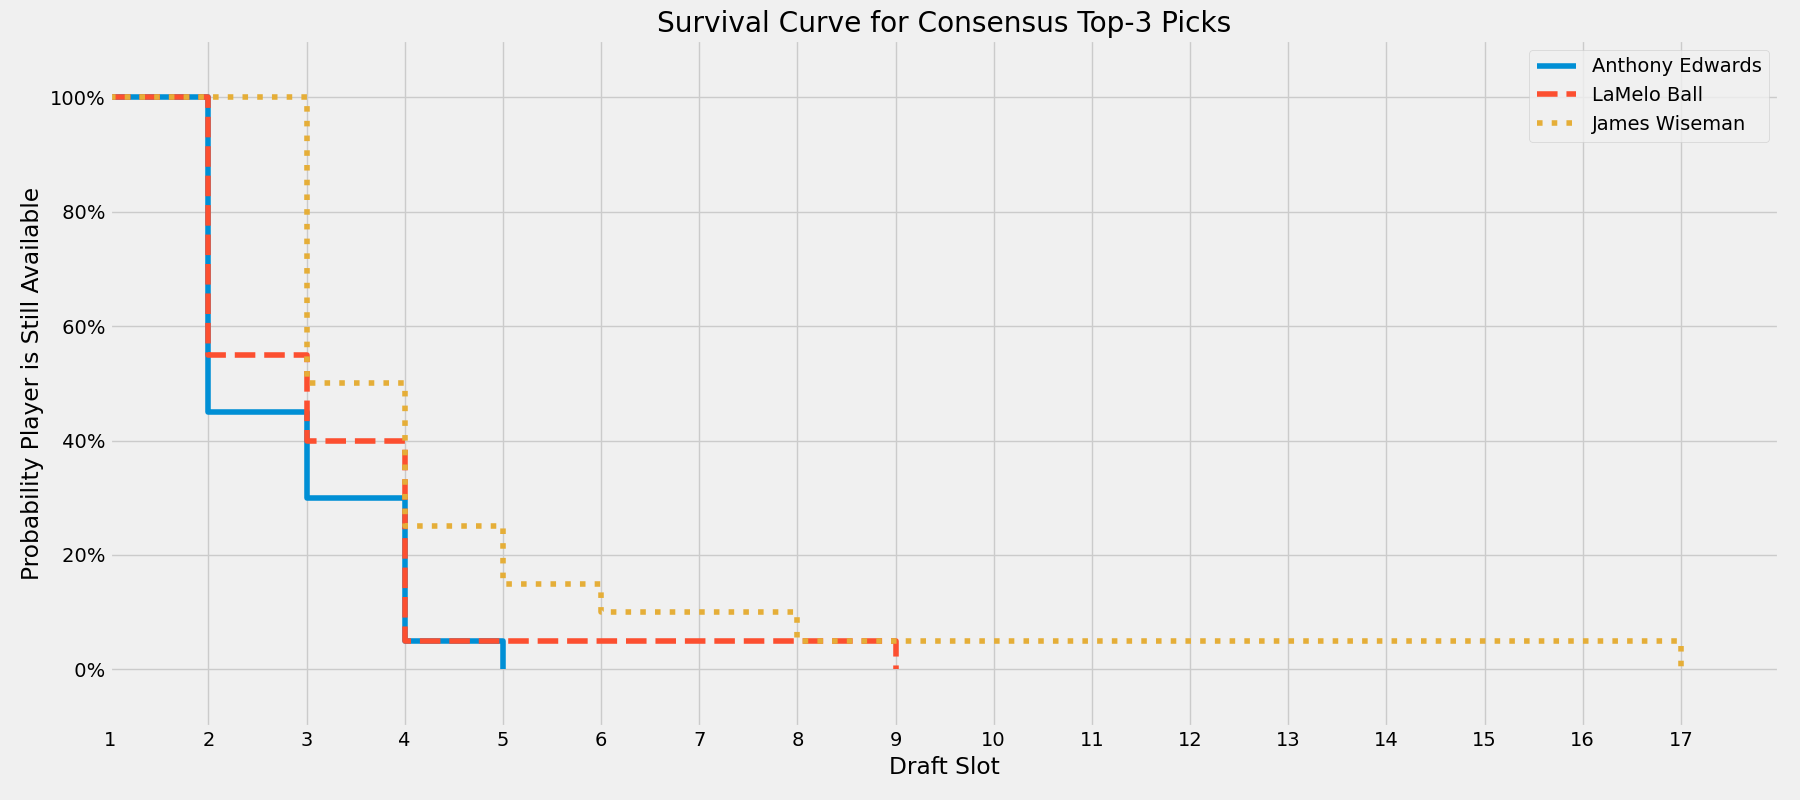
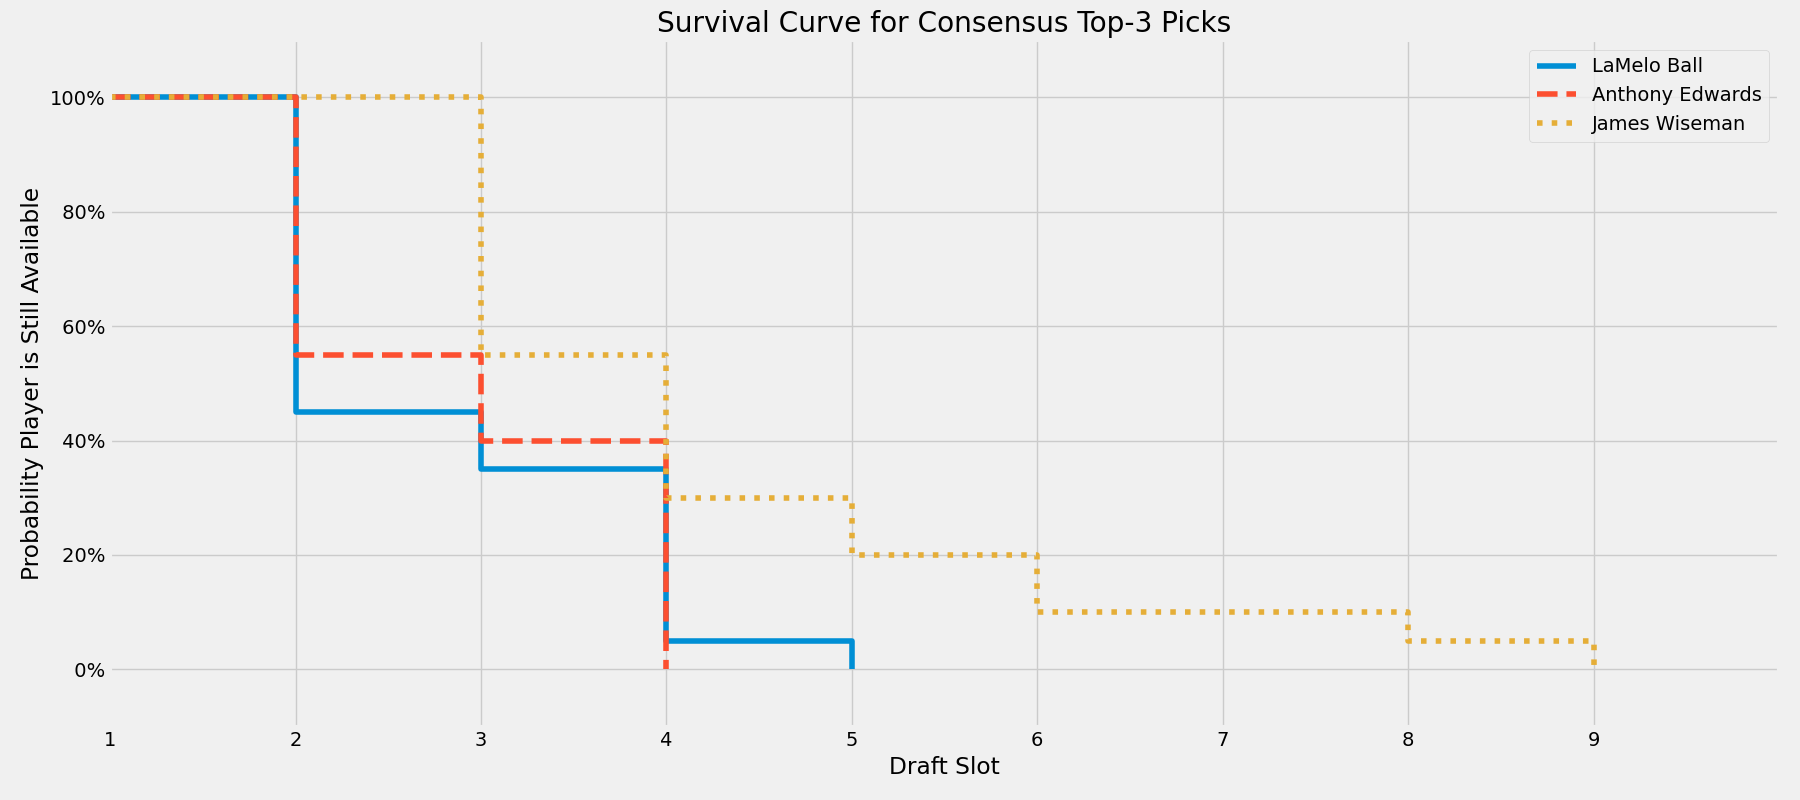
October 26 Updates

diff --git a/scripts/survival_analysis.py b/scripts/survival_analysis.py
@@ -72,7 +72,7 @@ def plot_player(player, melt_df, save=False):
     # slice to individual player
     idx = melt_df.player == player
     # get the maximum draft slot for given player for x-axis plotting purposes
-    x_max = min(60, melt_df.query("player=='{0}'".format(player))['duration'].max())
+    x_max = min(60, melt_df.query('player=="{0}"'.format(player))['duration'].max())
     # fit Kaplan-Meier survival model
     kmf.fit(melt_df.duration[idx], melt_df.observed[idx])
     # plot survival curve
@@ -237,16 +237,16 @@ if __name__=='__main__':
     # Read in individual mock drafts
     babcock_hoops_df = pd.read_csv('../data/babcock_hoops.csv')
     bryan_kalbrosky_df = pd.read_csv('../data/bryan_kalbrosky.csv')
+    chad_ford_df = pd.read_csv('../data/chad_ford.csv')
     chris_stone_df = pd.read_csv('../data/chris_stone.csv')
     danny_cunningham_df = pd.read_csv('../data/danny_cunningham.csv')
-    draft_express_df = pd.read_csv('../data/draft_express.csv')
     gary_parrish_df = pd.read_csv('../data/gary_parrish.csv')
     james_ham_df = pd.read_csv('../data/james_ham.csv')
     jeff_goodman_df = pd.read_csv('../data/jeff_goodman.csv')
     jeremy_woo_df = pd.read_csv('../data/jeremy_woo.csv')
+    jonathan_givony_df = pd.read_csv('../data/jonathan_givony.csv')
     jonathan_wasserman_df = pd.read_csv('../data/jonathan_wasserman.csv')
     kevin_oconnor_df = pd.read_csv('../data/kevin_oconnor.csv')
-    kevin_pelton_df = pd.read_csv('../data/kevin_pelton.csv')
     krysten_peek_df = pd.read_csv('../data/krysten_peek.csv')
     kyle_boone_df = pd.read_csv('../data/kyle_boone.csv')
     nbadraftnet_df = pd.read_csv('../data/nbadraftnet.csv')
@@ -257,10 +257,10 @@ if __name__=='__main__':
     tankathon_df = pd.read_csv('../data/tankathon.csv')
 
     # Pre-process individual mock drafts to match names
-    mock_draft_list = [babcock_hoops_df, bryan_kalbrosky_df, chris_stone_df,
-                       danny_cunningham_df, draft_express_df, gary_parrish_df,
+    mock_draft_list = [babcock_hoops_df, bryan_kalbrosky_df, chad_ford_df,
+                       chris_stone_df, danny_cunningham_df, gary_parrish_df,
                        james_ham_df, jeff_goodman_df, jeremy_woo_df,
-                       jonathan_wasserman_df, kevin_oconnor_df, kevin_pelton_df,
+                       jonathan_givony_df, jonathan_wasserman_df, kevin_oconnor_df,
                        krysten_peek_df, kyle_boone_df, nbadraftnet_df,
                        netscouts_df, ricky_odonnell_df, sam_veceine_df,
                        scott_gleeson_df, tankathon_df]
@@ -320,8 +320,16 @@ if __name__=='__main__':
                             on=['player', 'variable'],
                             how='inner'))
 
+    # Write out Long Form Big Board
+    melt_df.drop('variable', axis=1).to_csv('../data/big_board_long.csv',
+                                            index=False)
+
     # Plot an individual player's survival curve
-    plot_player('Anthony Edwards', melt_df, save=True)
+    plot_player('Anthony Edwards', melt_df, save=False)
+
+    # Save all player survival curves
+    for player in melt_df['player'].unique():
+        plot_player(player, melt_df, save=True)
 
     # Plot survival curves of consensus top ten picks
     plot_Consensus_top_10(big_board_df, melt_df, save=True)

diff --git a/readme.md b/readme.md
@@ -1,75 +1,75 @@
 <center> <h1>NBA Draft Survival Analysis</h1> </center>
-<center> <h3>Updated October 19, 2020</h3> </center>
+<center> <h3>Updated October 26, 2020</h3> </center>
 
 ---
 #### Motivation
-In preparation for the 2020 NBA Draft, we wanted to analyze when each prospect was likely to be selected. Compiling 20 mock drafts from various draft analysts, we created a survival analysis which calculated the probability of each prospect being available at each draft slot.
+In preparation for the 2020 NBA Draft, I wanted to analyze when each prospect was likely to be selected. Compiling 20 mock drafts from various draft analysts, I created a survival analysis which calculated the probability of each prospect being available at each draft slot.
 
-As an example, the following plot illustrates the probability that Anthony Edwards is available at each draft slot. Moving from left to right on the x-axis, we observe that based on the compiled mock drafts there is ~45% probability Edwards is available at pick number 2 and ~30% probability he is available at pick number 3.
+As an example, the following plot illustrates the probability that Anthony Edwards is available at each draft slot. Moving from left to right on the x-axis, we observe that based on the compiled mock drafts there is ~55% probability Edwards is available at pick number 2 and ~40% probability he is available at pick number 3.
 
 <div style="text-align:center"><img src='plots/players/anthony_edwards.png' width=70%></div>
 
 <br>
 
-Survival analysis is typically used to calculate the probability of death occurring at a given age for subsets of the population. In this case, we've substituting being drafted for death and draft slot for age. The time between the start of the analysis and when the event of interest occurs is called survival time, which in this case is the number of draft slots that a player is still available in each mock draft.
+Survival analysis is typically used to calculate the probability of death occurring at a given age for subsets of the population. In this case, I'm substituting being drafted for death and draft slot for age. The time between the start of the analysis and when the event of interest occurs is called survival time, which in this case is the number of draft slots that a player is still available in each mock draft.
 
-The analysis calculates probabilities for picks 1-60. Not all players were included in each mock draft and not every mock draft ranked players 1-60 with most only ranking through the first round. Since those players were never observed we've considered them right-censored. This means that we have some information about their expected selection, in most cases they were not selected picks 1-30, but not the exact slot in which the analyst had them mocked. Due to this constraint, we've used the Kaplan-Meier estimator to calculate the survival curve of each prospect.
+The analysis calculates probabilities for picks 1-60. Not all players were included in each mock draft and not every mock draft ranked players 1-60 with most only ranking through the first round. Since those players were never observed I've considered them right-censored. This means that we have some information about their expected selection, in most cases they were not selected picks 1-30, but not the exact slot in which the analyst had them mocked. Due to this constraint, I've used the Kaplan-Meier estimator to calculate the survival curve of each prospect.
 
 
 #### Mock Drafts
 
-Each player's survival curve is based on information compiled from 20 mock drafts listed below. We've not included the underlying data in this repo as two mocks are behind a paywall, but have stated when each was last updated. We'll check for updates and re-run the analysis on a weekly basis in the run-up to the draft. If you see any updates we've missed or mocks we should add let us know! Thanks to all of these individuals who publish their mock drafts, especially to those who do it in tabular form.
+Each player's survival curve is based on information compiled from 20 mock drafts listed below. I've not included the underlying data in this repo as some mocks are behind a paywall, but have stated when each was last updated. I'll check for updates and re-run the analysis on a weekly basis in the run-up to the draft. If you see any updates I've missed or mocks I should add let me know! Thanks to all of these individuals who publish their mock drafts, especially to those who do it in tabular form.
 
 | Name  | Affiliation  | Updated  | Mock Draft  |
 |---|---|---|---|
 | Babcock Hoops  | Babcock Hoops  | October 5  | [Link](https://www.babcockhoops.com/mockdraft)  |
-| Bryan Kalbrosky  | Rookie Wire  | August 20  | [Link](https://therookiewire.usatoday.com/lists/2020-nba-mock-draft-all-60-picks-post-lottery/)  |
+| Bryan Kalbrosky  | Rookie Wire  | October 22  | [Link](https://therookiewire.usatoday.com/lists/2020-nba-mock-draft-all-60-picks-post-combine/)  |
+| Chad Ford  | NBA Big Board  | October 21  | [Link](https://nbabigboard.com/)  |
 | Chris Stone  | Sporting News  | March 24  | [Link](https://www.sportingnews.com/us/nba/news/nba-mock-draft-2020-warriors-pick-timberwolves-lamelo-ball/178cr8zivu85e1qdtavgxp9cc2)  |
 | Danny Cunningham  | Complex  | October 12  | [Link](https://www.complex.com/sports/nba-mock-draft-predictions-post-nba-finals/?utm_campaign=sportstw&utm_source=twitter.com&utm_medium=social)  |
-| Draft Express  | ESPN  | August 20  | [Link](https://www.espn.com/nba/insider/story/_/id/29695731/nba-mock-draft-projected-picks-big-lottery-winners)  |
 | Gary Parrish  | CBS Sports  | October 9  | [Link](https://www.cbssports.com/nba/draft/mock-draft/)  |
-| James Ham  | NBC Sports | October 12  | [Link](https://www.nbcsports.com/bayarea/warriors/2020-nba-mock-draft-180-first-round-pick-projections-after-lakers-win-finals)  |
+| James Ham  | NBC Sports | October 26  | [Link](https://www.nbcsports.com/bayarea/warriors/2020-nba-mock-draft-190-first-round-pick-projections-after-finals)  |
 | Jeff Goodman  | Stadium  | August 21  | [Link](https://watchstadium.com/jeff-goodmans-2020-nba-mock-draft-3-0-lottery-order-revealed-08-20-2020/)  |
 | Jeremy Woo  | Sports Illustrated  | October 14  | [Link](https://www.si.com/nba/2020/10/14/nba-mock-draft-projections-post-finals)  |
-| Jonathan Wasserman  | Bleacher Report  | October 6  | [Link](https://bleacherreport.com/articles/2912058-2020-nba-mock-draft-simulating-3-trades-in-historically-unpredictable-lottery)  |
+| Jonathan Givony  | ESPN  | August 20  | [Link](https://www.espn.com/nba/insider/story/_/id/29695731/nba-mock-draft-projected-picks-big-lottery-winners)  |
+| Jonathan Wasserman  | Bleacher Report  | October 21  | [Link](https://bleacherreport.com/articles/2914096-2020-nba-mock-draft-3-trades-that-would-turn-the-lottery-upside-down)  |
 | Kevin O'Connor  | The Ringer  | October 14  | [Link](https://nbadraft.theringer.com/)  |
-| Kevin Pelton  | ESPN  | June 24  | [Link](https://www.espn.com/nba/insider/story/_/id/29335461/2020-nba-draft-projections-ranking-top-30-prospects)  |
 | Krysten Peek  | Yahoo Sports  | October 15  | [Link](https://sports.yahoo.com/2020-nba-mock-draft-50-la-melo-moves-to-no-1-132728170.html)  |
-| Kyle Boone  | CBS Sports  | October 15  | [Link](https://www.cbssports.com/nba/draft/mock-draft/)  |
+| Kyle Boone  | CBS Sports  | October 21  | [Link](https://www.cbssports.com/nba/draft/mock-draft/)  |
 | NBAdraftnet | NBAdraftnet | September 16 | [Link](https://www.nbadraft.net/nba-mock-drafts/) |
-| NetScouts  | NetScouts  | October 5  | [Link](https://netscoutsbasketball.com/scouting/2020-nba-mock-draft/)  |
+| NetScouts  | NetScouts  | October 20  | [Link](https://netscoutsbasketball.com/scouting/2020-nba-mock-draft/)  |
 | Ricky O'Donnell  | SB Nation  | August 20  | [Link](https://www.sbnation.com/nba/2020/8/20/21374098/nba-mock-draft-2020-lottery-order-timberwolves-warriors-bulls)  |
 | Sam Veceine  | The Athletic  | October 13  | [Link](https://theathletic.com/2128239/2020/10/13/lamelo-ball-over-james-wiseman-at-no-1-in-2020-nba-mock-draft-version-8-0/)  |
 | Scott Gleeson  | USA Today  | August 20  | [Link](https://www.usatoday.com/story/sports/nba/draft/2020/08/20/nba-mock-draft-post-lottery-timberwolves-top-pick/3402893001/)  |
-| Tankathon  | Tankathon  | ~ August  | [Link](http://www.tankathon.com/mock_draft)  |
+| Tankathon  | Tankathon  | October 24  | [Link](http://www.tankathon.com/mock_draft)  |
 
 #### Consensus Top-3 Picks
 
-Based on the average draft slot across all mock drafts, Anthony Edwards (1.8), LaMelo Ball (2.2), and James Wiseman (3.5) are the consensus top three picks. Their respective survival curves are plotted below. At this point in time only Ball and Edwards are expected to be selected in the top two picks. Ball and Wiseman have low probabilities of lasting to picks 9 and 17, respectively, as a few mocks have them going quite low.
+Based on the average draft slot across all mock drafts, LaMelo Ball (1.8), Anthony Edwards (1.9), and James Wiseman (3.3) are the consensus top three picks. Their respective survival curves are plotted below. At this point in time Ball and Edwards are the heavy favorites to go in the first two picks. Wiseman is ranked substantially lower in a few mocks resulting in a low probability of him falling to the eighth pick.
 
 <div style="text-align:center"><img src='plots/top_3.png' width=90%></div>
 
 #### Consensus Top-10 Picks
 
-In similar fashion, here are the survival curves of the consensus top-10 picks. Six of the top ten have a non-zero chance of falling out of the lottery according to the mock drafts. One thing we have our eye on is any future movement in Devin Vassell's curve after the suspected [change to his shooting form](https://twitter.com/Joe_Casey1/status/1316803378182262784?s=20) that have [some analysts questining their opinion of him](https://twitter.com/johnhollinger/status/1316794770220556288?s=20).
+In similar fashion, here are the survival curves of the consensus top-10 picks. Three of the top ten have a non-zero chance of falling out of the lottery according to the mock drafts. One thing I have my eye on is any future movement in Devin Vassell's curve after the suspected [change to his shooting form](https://twitter.com/Joe_Casey1/status/1316803378182262784?s=20) that have [some analysts questioning their opinion of him](https://twitter.com/johnhollinger/status/1316794770220556288?s=20). There's yet to be any evidence that has occurred just yet.
 
 <div style="text-align:center"><img src='plots/top_10.png' width=90%></div>
 
 #### Case Studies
 
-At this point the mock drafts have Anthony Edwards as the most likely first overall pick. There's ~45% probability he is available at the number two pick and ~30% chance he is available at the third pick. Based on the mocks there is no chance he falls to the 5th pick.
+At this point the mock drafts have LaMelo Ball as the most likely first overall pick just ahead of Anthony Edwards. There's ~45% probability he is available at the number two pick and ~35% chance he is available at the third pick. Based on the mocks there is no chance he falls to the 4th pick.
 
-<div style="text-align:center"><img src='plots/players/anthony_edwards.png' width=90%></div>
+<div style="text-align:center"><img src='plots/players/lamelo_ball.png' width=90%></div>
 
 <br>
 
-Xavier Tillman provides a good example of a player likely to go in the middle of the draft. Based on the mock drafts, he is unlikely to be selected prior to the 23rd slot. After then his probability of being available decreases at a steady rate. He is likely to be gone by pick 52.
+Xavier Tillman provides a good example of a player likely to go in the middle of the draft. Based on the mock drafts, he is unlikely to be selected prior to the 27th pick. After then his probability of being available decreases at a steady rate.
 
 <div style="text-align:center"><img src='plots/players/xavier_tillman.png' width=90%></div>
 
 <br>
 
-Kenyon Martin Jr. is a player on the fringe of being drafted. The mock drafts have him unlikely to be selected prior to pick number 56. In total, there is ~60% probability he goes undrafted.
+Kenyon Martin Jr. is a player on the fringe of being drafted. The mock drafts have him unlikely to be selected prior to pick number 56. In total, there is ~75% probability he goes undrafted.
 
 <div style="text-align:center"><img src='plots/players/kenyon_martin_jr.png' width=90%></div>
 
@@ -82,7 +82,7 @@ Hopefully this analysis provides additional information for teams on when target
 <div style="text-align:center"><img src='plots/pg_example.png' width=90%></div>
 
 #### Dashboard
-To interactively filter to a specific player, visit our [dashboard](https://chrisfeller.shinyapps.io/nba_draft_survival_analysis_app/?_ga=2.67843986.2071066075.1603058532-829731406.1603058532).
+To interactively filter to a specific player, visit the accompanying [dashboard](https://chrisfeller.shinyapps.io/nba_draft_survival_analysis_app/?_ga=2.67843986.2071066075.1603058532-829731406.1603058532).
 
 <div style="text-align:center"><img src='plots/dashboard_example.png' width=90%></div>
 
